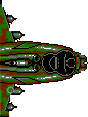
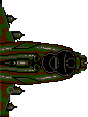
Make it so.

Changed region(s): [[0.0, 0.0256, 1.0, 1.0], [0.7273, 0.4615, 0.7727, 0.6154]]

diff --git a/CPT-Plastic-Gear/main.html b/CPT-Plastic-Gear/main.html
@@ -70,7 +70,7 @@
             <img src = "Assets/door-bottom.png" class = "doorVerticalSpriteBottom">
         </div>
         <div class = "doorVertical" id = "doorTop">
-            <img src = "Assets/door-vertical.png" class = "doorVerticalSpriteTop">
+            <img src = "Assets/door-room-0.png" class = "doorVerticalSpriteTop">
         </div>
 
         <!--Player Character's Div Containing Sprite-->

diff --git a/CPT-Plastic-Gear/JS/main.js b/CPT-Plastic-Gear/JS/main.js
@@ -369,7 +369,7 @@ let room0 = `
     <img src = "Assets/door-bottom.png" class = "doorVerticalSpriteBottom">
 </div>
 <div class = "doorVertical" id = "doorTop">
-    <img src = "Assets/door-top.png" class = "doorVerticalSpriteTop">
+    <img src = "Assets/door-room-0.png" class = "doorVerticalSpriteTop">
 </div>
 
 <!--Player Character's Div Containing Sprite-->
